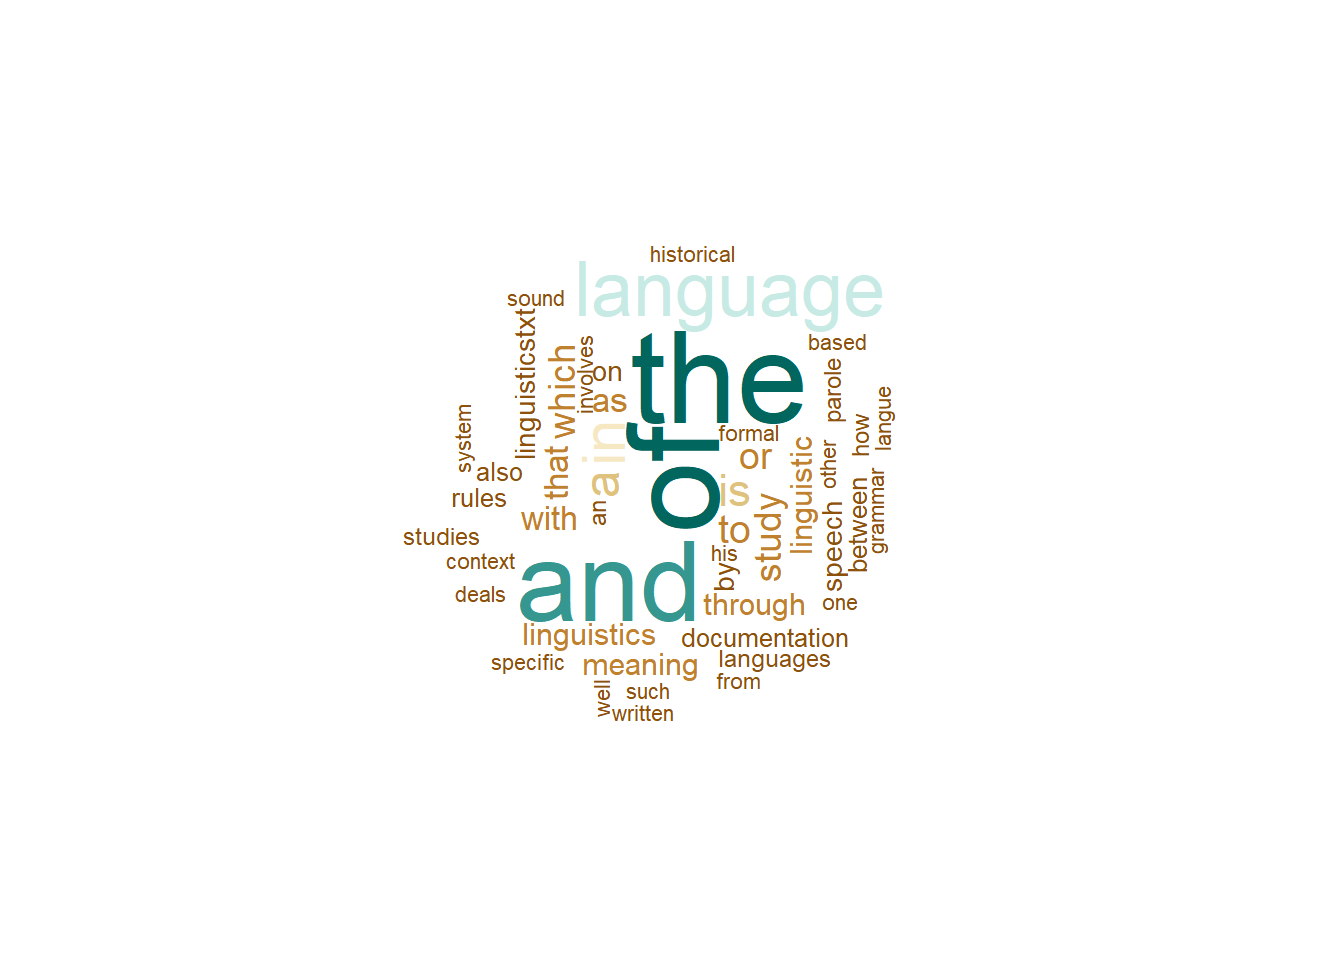
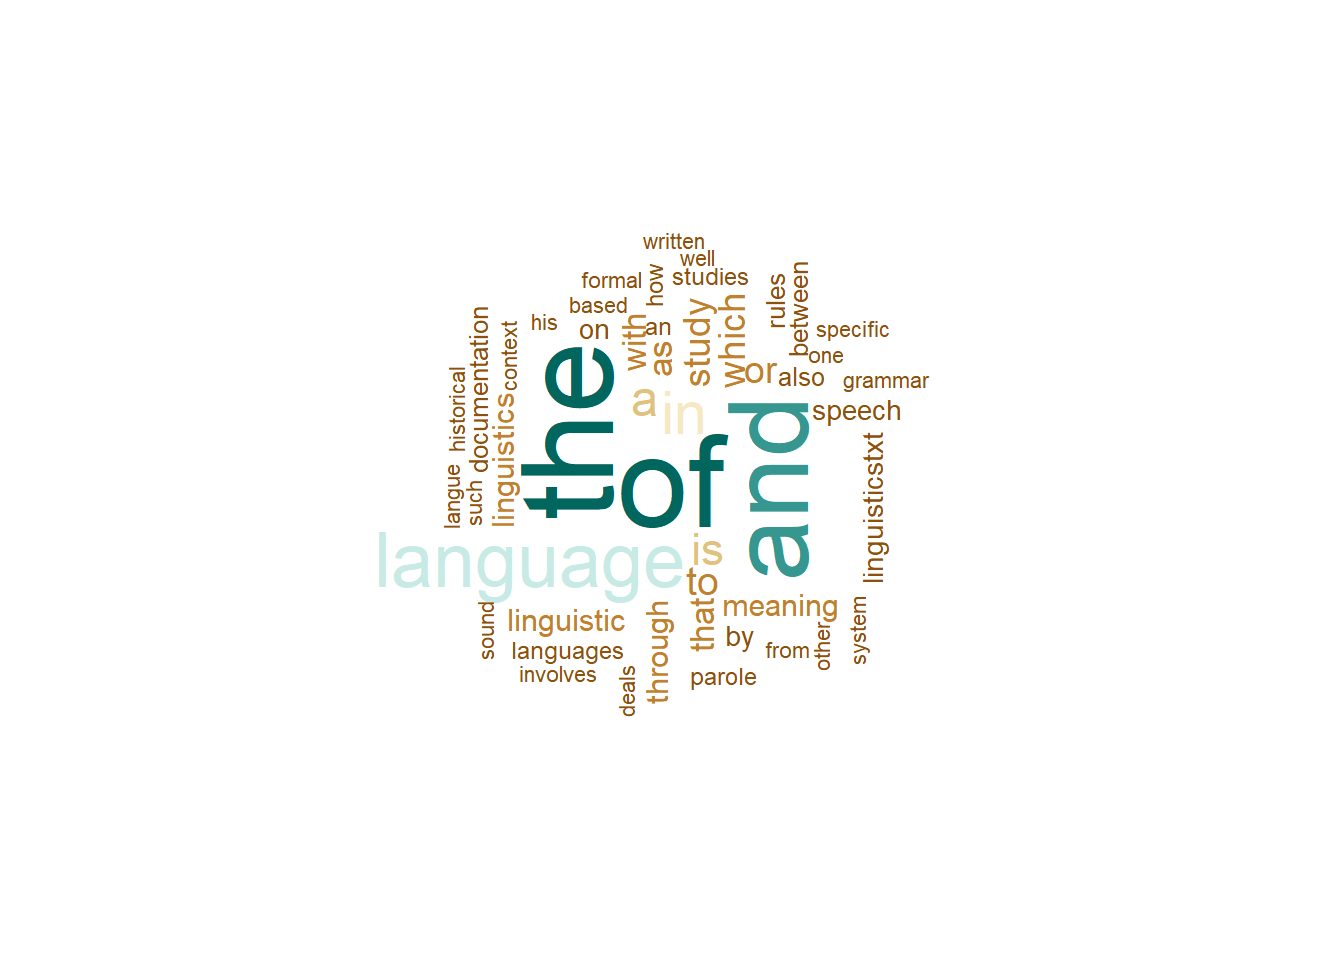
201907114

Changed region(s): [[0.2812, 0.25, 0.6875, 0.75]]

diff --git a/textanalysis.html b/textanalysis.html
@@ -428,7 +428,7 @@ div.tocify {
       <a href="network.html">Network Analysis</a>
     </li>
     <li>
-      <a href="topic.html">Topic Modeling</a>
+      <a href="topicmodels.html">Topic Modeling</a>
     </li>
     <li>
       <a href="classification.html">Classification</a>
@@ -692,7 +692,7 @@ colnames(tdm) &lt;- c(&quot;Twain&quot;,&quot;Melville&quot;)
 # create comparison cloud
 comparison.cloud(tdm, random.order=FALSE, 
                  colors = c(&quot;orange&quot;,&quot;lightblue&quot;),
-                 title.size=2.5, max.words=400, 
+                 title.size=2.5, max.words=200, 
                  title.bg.colors = &quot;white&quot;)</code></pre>
 <p><img src="textanalysis_files/figure-html/wf7-1.png" width="672" /></p>
 <p>Frequency infromation can also tell us something about the nature of a text. For instance, private dialogues will typically contain higher rates of second person pronouns compared with more format text types, such as, for instance, scripted monologues like speeches. For this reason, word frequency lists can be used in text classification and to determine the formality of texts.</p>
@@ -764,19 +764,19 @@ assocplot(d)</code></pre>
 <h2><span class="header-section-number">6.1</span> Part-of-speech tagging (pos tagging)</h2>
 <p>For many analyses that use language data it is useful or even important to differentiate between different parts of speech. In order to determine the word class of a certain word, we use a procedure which is called part-of-speech tagging or pos-tagging for short. Part-of-speech tagging is offered by many online services (e.g. )</p>
 <pre class="r"><code># load corpus data
-text &lt;- readLines(&quot;D:\\Uni\\UQ\\LADAL\\SLCLADAL.github.io\\data/text4.txt&quot;, skipNul = T)
+text &lt;- readLines(&quot;D:\\Uni\\UQ\\LADAL\\SLCLADAL.github.io\\data/text2.txt&quot;, skipNul = T)
 # clean data
 text &lt;- text[5] %&gt;%
   removeNumbers() %&gt;%
   stripWhitespace() %&gt;%
   str_replace_all(&quot;\&quot;&quot;, &quot;&quot;)  %&gt;%
-  str_replace_all(&quot;Considered hideous.*&quot;, &quot;&quot;)  %&gt;%
+  str_replace_all(&quot;When Harry.*&quot;, &quot;&quot;)  %&gt;%
   strsplit(&quot;qwertz&quot;) %&gt;%
   unlist() %&gt;%
   stripWhitespace() 
 # inspect data
 text</code></pre>
-<pre><code>## [1] &quot;Bernard, as custodian of the savage John who is now treated as a celebrity, is fawned on by the highest members of society and revels in attention he once scorned. Bernard&#39;s popularity is fleeting, though, and he becomes envious that John only really bonds with the literary-minded Helmholtz. &quot;</code></pre>
+<pre><code>## [1] &quot;By chance, Harry encounters the man who gave him the book, just as the man has attended a funeral. He inquires about the magic theater, to which the man replies, Not for everybody. &quot;</code></pre>
 <pre class="r"><code># load libraries
 source(&quot;D:\\R/POStagObject.R&quot;) # for pos-tagging objects in R
 library(NLP)
@@ -786,15 +786,68 @@ library(openNLPmodels.en)
 textpos &lt;- POStag(object = text)
 textpos</code></pre>
 <pre><code>## [[1]]
-## [1] &quot;Bernard/NNP ,/, as/IN custodian/NN of/IN the/DT savage/JJ John/NNP who/WP is/VBZ now/RB treated/VBN as/IN a/DT celebrity/NN ,/, is/VBZ fawned/VBN on/IN by/IN the/DT highest/JJS members/NNS of/IN society/NN and/CC revels/NNS in/IN attention/NN he/PRP once/RB scorned/VBD ./. Bernard/NNP &#39;s/POS popularity/NN is/VBZ fleeting/JJ ,/, though/IN ,/, and/CC he/PRP becomes/VBZ envious/JJ that/IN John/NNP only/RB really/RB bonds/NNS with/IN the/DT literary-minded/JJ Helmholtz/NNP ./.&quot;</code></pre>
-<p><img src="textanalysis_files/figure-html/unnamed-chunk-1-1.png" width="384" /> Figure 3: Example of the first lines of the pos-tagged ICE Ireland.</p>
+## [1] &quot;By/IN chance/NN ,/, Harry/NNP encounters/VBZ the/DT man/NN who/WP gave/VBD him/PRP the/DT book/NN ,/, just/RB as/IN the/DT man/NN has/VBZ attended/VBN a/DT funeral/NN ./. He/PRP inquires/VBZ about/IN the/DT magic/JJ theater/NN ,/, to/TO which/WDT the/DT man/NN replies/VBZ ,/, Not/RB for/IN everybody/NN ./.&quot;</code></pre>
 </div>
 <div id="syntactic-parsing" class="section level2">
 <h2><span class="header-section-number">6.2</span> Syntactic Parsing</h2>
-<p>Parsing refers to another type of annotation in which typically syntactic relations or functions are added to text. Parsing builds on PoS-tagging and allows drawing syntactic trees or dependencies.</p>
-<p><img src="textanalysis_files/figure-html/unnamed-chunk-2-1.png" width="384" /></p>
+<p>Parsing refers to another type of annotation in which either structural information (as in the case of XML documents) or syntactic relations are added to text. As syntactic parsing is commonly more relevenat in the language sciences, the follwoing will focus only on syntactic parsing. syntactic parsing builds on PoS-tagging and allows drawing syntactic trees or dependencies. Unfortunately, syntactic parsing is still has relatively high error rates when dealing with language that is not very formal. However, syntactic parsing is very reliable when dealing with written language.</p>
+<pre class="r"><code># extract text
+text &lt;- gsub(&quot;He inquires.*&quot;, &quot;&quot;, text)
+# convert character to string
+s &lt;- as.String(text)
+# define sentence and word token annotator
+sent_token_annotator &lt;- Maxent_Sent_Token_Annotator()
+word_token_annotator &lt;- Maxent_Word_Token_Annotator()
+# apply sentence and word annotatior
+a2 &lt;- annotate(s, list(sent_token_annotator, word_token_annotator))
+# define syntactic parsing annotator
+parse_annotator &lt;- Parse_Annotator()
+# apply parser
+p &lt;- parse_annotator(s, a2)
+# extract parsed information
+ptexts &lt;- sapply(p$features, &#39;[[&#39;, &quot;parse&quot;)
+ptexts</code></pre>
+<pre><code>## [1] &quot;(TOP (S (PP (IN By) (NP (NN chance)))(, ,) (NP (NNP Harry)) (VP (VBD encounters) (NP (NP (DT the) (NN man)) (SBAR (WHNP (WP who)) (S (VP (VBD gave) (NP (PRP him)) (NP (DT the) (NN book))(, ,) (SBAR (RB just) (IN as) (S (NP (DT the) (NN man)) (VP (VBZ has) (VP (VBN attended) (NP (DT a) (NN funeral)))))))))))(. .)))&quot;</code></pre>
+<pre class="r"><code># read into NLP Tree objects.
+ptrees &lt;- lapply(ptexts, Tree_parse)
+# show frist tree
+ptrees[[1]]</code></pre>
+<pre><code>## (TOP
+##   (S
+##     (PP (IN By) (NP (NN chance)))
+##     (, ,)
+##     (NP (NNP Harry))
+##     (VP
+##       (VBD encounters)
+##       (NP
+##         (NP (DT the) (NN man))
+##         (SBAR
+##           (WHNP (WP who))
+##           (S
+##             (VP
+##               (VBD gave)
+##               (NP (PRP him))
+##               (NP (DT the) (NN book))
+##               (, ,)
+##               (SBAR
+##                 (RB just)
+##                 (IN as)
+##                 (S
+##                   (NP (DT the) (NN man))
+##                   (VP
+##                     (VBZ has)
+##                     (VP (VBN attended) (NP (DT a) (NN funeral)))))))))))
+##     (. .)))</code></pre>
+<p>These trees can, of course, also be shown visually.</p>
+<pre class="r"><code># load library
+library(igraph)
+source(&quot;D:\\R/parse2graph.R&quot;)
+parse2graph(ptexts[1], title = &quot;&quot;, margin=-0.2, vertex.color=NA,
+            vertex.frame.color=NA, vertex.label.font=2,
+            vertex.label.cex=.75, vertex.label.color=&quot;black&quot;, asp=.5,
+            edge.width=1, edge.color=&#39;red&#39;, edge.arrow.size=0)</code></pre>
+<p><img src="textanalysis_files/figure-html/pars3-1.png" width="672" /></p>
 <p>The parsed information can then be used to create e.g. syntax trees.</p>
-<p><img src="textanalysis_files/figure-html/unnamed-chunk-3-1.png" width="384" /></p>
 </div>
 </div>
 <div id="text-classification" class="section level1">
@@ -988,17 +1041,17 @@ rownames(emo) &lt;- gsub(&quot;emos&quot;, &quot;&quot;, rownames(emo))
 # inspect data
 head(emo)</code></pre>
 <pre><code>##           anger anticipation disgust fear  joy sadness surprise trust
-## darwin     0.70         1.64    0.40 1.36 1.24    1.16     0.84  2.62
-## twain      0.76         2.36    0.72 1.32 1.96    1.26     1.12  2.28
-## orwell     1.76         2.32    1.58 2.80 1.82    2.12     1.04  2.70
-## lovecraft  1.64         1.68    1.62 2.36 0.92    2.40     0.98  1.50
-## husband    2.00         2.38    1.14 2.30 2.22    2.22     1.22  2.36
+## darwin     0.70         1.86    0.50 1.24 1.26    1.26     0.96  2.42
+## twain      1.18         2.48    0.58 1.58 1.96    1.18     1.42  2.08
+## orwell     1.88         2.04    1.48 2.42 1.70    1.98     1.26  2.50
+## lovecraft  1.52         1.94    1.34 2.34 0.94    2.16     0.88  1.46
+## husband    2.10         2.38    1.18 2.34 2.20    2.32     1.24  2.34
 ##           negative positive
-## darwin        2.66     4.02
-## twain         2.22     3.26
-## orwell        4.44     4.18
-## lovecraft     4.68     2.56
-## husband       4.34     4.50</code></pre>
+## darwin        2.52     3.78
+## twain         2.26     3.54
+## orwell        4.16     4.24
+## lovecraft     4.28     2.82
+## husband       4.44     4.44</code></pre>
 <pre class="r"><code>#convert into data frame
 emo &lt;- as.data.frame(emo)
 # add author column
@@ -1011,11 +1064,11 @@ emol &lt;- gather(emo, Emotion, Score, anger:positive, factor_key=TRUE)
 head(emol)</code></pre>
 <pre><code>##      Author      Emotion Score
 ## 1    Darwin        anger  0.70
-## 2     Twain        anger  0.76
-## 3    Orwell        anger  1.76
-## 4 Lovecraft        anger  1.64
-## 5   Husband        anger  2.00
-## 6    Darwin anticipation  1.64</code></pre>
+## 2     Twain        anger  1.18
+## 3    Orwell        anger  1.88
+## 4 Lovecraft        anger  1.52
+## 5   Husband        anger  2.10
+## 6    Darwin anticipation  1.86</code></pre>
 <pre class="r"><code># load library
 library(ggplot2)
 # extract subset
@@ -1030,16 +1083,90 @@ ggplot(emol2,                   # plot barplotdatagg1
            position=position_dodge()) +  # determine grouping
   scale_fill_manual(values=c(&quot;goldenrod2&quot;, &quot;gray70&quot;, &quot;indianred4&quot;, &quot;grey30&quot;, &quot;lightblue&quot;)) +                 # define colours
   theme_bw()                    # define theme (black and white)</code></pre>
-<p><img src="textanalysis_files/figure-html/unnamed-chunk-17-1.png" width="672" /></p>
+<p><img src="textanalysis_files/figure-html/unnamed-chunk-14-1.png" width="672" /></p>
 </div>
 </div>
 <div id="entity-extraction" class="section level1">
 <h1><span class="header-section-number">9</span> Entity Extraction</h1>
 <p>Entity Extraction is a process during which textual elements which have characteristics that are common to proper nouns (locations, people, organizations, etc.) rather than other parts of speech, e.g. non-sentence initial capitalization, are extracted from texts. Retrieving entities is common in automated summarization and in Topic Modelling. Entity extraction can be achieved by simple feature extraction (e.g. extract all non-sentence initial capitalized words) or with the help of training sets. Using training sets, i.e. texts that are annotated for entities and non-entities, achieves better results when dealing with unknown data and data with inconsistent capitalization.</p>
+<pre class="r"><code># load libraries
+library(NLP)
+library(openNLP)
+library(openNLPmodels.en)
+# load text
+orwell &lt;- readLines(&quot;D:\\Uni\\UQ\\LADAL\\SLCLADAL.github.io\\data/orwell.txt&quot;)
+orwell &lt;- orwell  %&gt;%
+  paste(sep = &quot; &quot;, collapse = &quot; &quot;) %&gt;%
+  str_replace_all(&quot; {2,}&quot;, &quot; &quot;) %&gt;%
+  str_replace_all(&quot;Part 2,.*&quot;, &quot;&quot;)
+# convert text into string
+orwell = as.String(orwell)
+# define annotators
+sent_annot = Maxent_Sent_Token_Annotator()
+word_annot = Maxent_Word_Token_Annotator()
+loc_annot = Maxent_Entity_Annotator(kind = &quot;location&quot;) 
+people_annot = Maxent_Entity_Annotator(kind = &quot;person&quot;) 
+# start annotation
+orwellanno = NLP::annotate(orwell, list(sent_annot, word_annot, 
+                                        loc_annot, people_annot))
+# extract features
+k &lt;- sapply(orwellanno$features, `[[`, &quot;kind&quot;)
+# extract locations
+orwelllocations = names(table(orwell[orwellanno[k == &quot;location&quot;]]))
+# extract people
+orwellpeople = names(table(orwell[orwellanno[k == &quot;person&quot;]]))
+# inspect extract people
+orwellpeople</code></pre>
+<pre><code>##  [1] &quot;Adam&quot;                &quot;Ah&quot;                  &quot;Big Brother&quot;        
+##  [4] &quot;Byron&quot;               &quot;Comrade Ogilvy&quot;      &quot;Floating Fortresses&quot;
+##  [7] &quot;Goldstein&quot;           &quot;Ingsoc.&quot;             &quot;Jews&quot;               
+## [10] &quot;Jones&quot;               &quot;Julius Caesar&quot;       &quot;Martin&quot;             
+## [13] &quot;Milton&quot;              &quot;Parsons&quot;             &quot;Peace&quot;              
+## [16] &quot;Rutherford&quot;          &quot;Saint Sebastian&quot;     &quot;Shakespeare&quot;        
+## [19] &quot;Smith&quot;               &quot;St Martin&quot;           &quot;Syme&quot;               
+## [22] &quot;Tom&quot;                 &quot;Winston&quot;             &quot;Winston Smith&quot;      
+## [25] &quot;Withers&quot;</code></pre>
 </div>
 <div id="topic-modelling" class="section level1">
 <h1><span class="header-section-number">10</span> Topic Modelling</h1>
-<p>Topic Modelling is a procedure that allows to extract clusters of key words. These key word clusters can represent topics that texts deal with. This procedure builds on word frequencies and correlations between word frequencies.</p>
+<p>Topic Modelling is a procedure that allows to extract clusters of key words. These key word clusters can represent topicsand the extraction and detection of such key word clusters builds on word frequencies and correlations between word frequencies.</p>
+<pre class="r"><code># load libraries
+library(NLP)
+library(openNLP)
+library(openNLPmodels.en)
+# load text
+orwell &lt;- readLines(&quot;D:\\Uni\\UQ\\LADAL\\SLCLADAL.github.io\\data/orwell.txt&quot;)
+orwell &lt;- orwell  %&gt;%
+  paste(sep = &quot; &quot;, collapse = &quot; &quot;) %&gt;%
+  str_replace_all(&quot; {2,}&quot;, &quot; &quot;) %&gt;%
+  str_replace_all(&quot;Part 2,.*&quot;, &quot;&quot;)
+# convert text into string
+orwell = as.String(orwell)
+# define annotators
+sent_annot = Maxent_Sent_Token_Annotator()
+word_annot = Maxent_Word_Token_Annotator()
+loc_annot = Maxent_Entity_Annotator(kind = &quot;location&quot;) 
+people_annot = Maxent_Entity_Annotator(kind = &quot;person&quot;) 
+# start annotation
+orwellanno = NLP::annotate(orwell, list(sent_annot, word_annot, 
+                                        loc_annot, people_annot))
+# extract features
+k &lt;- sapply(orwellanno$features, `[[`, &quot;kind&quot;)
+# extract locations
+orwelllocations = names(table(orwell[orwellanno[k == &quot;location&quot;]]))
+# extract people
+orwellpeople = names(table(orwell[orwellanno[k == &quot;person&quot;]]))
+# inspect extract people
+orwellpeople</code></pre>
+<pre><code>##  [1] &quot;Adam&quot;                &quot;Ah&quot;                  &quot;Big Brother&quot;        
+##  [4] &quot;Byron&quot;               &quot;Comrade Ogilvy&quot;      &quot;Floating Fortresses&quot;
+##  [7] &quot;Goldstein&quot;           &quot;Ingsoc.&quot;             &quot;Jews&quot;               
+## [10] &quot;Jones&quot;               &quot;Julius Caesar&quot;       &quot;Martin&quot;             
+## [13] &quot;Milton&quot;              &quot;Parsons&quot;             &quot;Peace&quot;              
+## [16] &quot;Rutherford&quot;          &quot;Saint Sebastian&quot;     &quot;Shakespeare&quot;        
+## [19] &quot;Smith&quot;               &quot;St Martin&quot;           &quot;Syme&quot;               
+## [22] &quot;Tom&quot;                 &quot;Winston&quot;             &quot;Winston Smith&quot;      
+## [25] &quot;Withers&quot;</code></pre>
 </div>
 
 

diff --git a/introquant.html b/introquant.html
@@ -428,7 +428,7 @@ div.tocify {
       <a href="network.html">Network Analysis</a>
     </li>
     <li>
-      <a href="topic.html">Topic Modeling</a>
+      <a href="topicmodels.html">Topic Modeling</a>
     </li>
     <li>
       <a href="classification.html">Classification</a>
@@ -486,7 +486,7 @@ div.tocify {
 <p>Unfortunately, this procedure to acquire knowledge does not tell us whether the statement “<em>I will raise my left arm once I have counted to three</em>” or the statement “<em>I will raise my right arm once I have counted to three</em>” is true. Both options are equally possible and a world in which I raise my left arm is just as logically coherent as a world in which I raised my right arm. As a consequence, we need empirical evidence to determine whether statement (as a side note: I only counted to two and raised neither of my arms). The problem here is that there is potentially an infinite number of possible numbers of logically coherent worlds and in order to determine which of these potential worlds is the world we live in (given that our world is logically coherent which I often doubt). In other words, we need empirical evidence to determine the workings of the world around us.</p>
 <div id="errare-humanum-est" class="section level2">
 <h2><span class="header-section-number">2.1</span> Errare Humanum Est</h2>
-<p>All of the above indicates that we need empirical evidence to determine the rules and laws governing empirical reality but it does not tell us why we need science. As we have established above, only empirical evidence can lead the way to determining what the characteristics of the world we live in are. Science comes in as we, as human beings, are not very good at seeing and understanding the world as it is (in fact, we are not able to do so!). To elaborate, when it comes things we are scared of, we rather rely on emotional narratives rather than things that really do us harm. For instance, we are more scared of what is sometimes referred to as <em>stranger danger</em>, i.e. that someone unknown will harm us or people dear to us than people we know while most murders and sexual exploits are committed by people, we know such as our family and friends. Another example would be represented by the movie <em>Jaws</em> while mosquitoes or even cows kill more people (mosquitoes are in fact the most dangerous animal for humans due to the diseases they transmit).</p>
+<p>All of the above indicates that we need empirical evidence to determine the rules and laws governing empirical reality but it does not tell us why we need science. As we have established above, only empirical evidence can lead the way to determining what the characteristics of the world we live in are. Science comes in as we, as human beings, are not very good at seeing and understanding the world as it is (in fact, we are not able to do so!). To elaborate, when it comes things we are scared of, we rather rely on emotional narratives rather than things that really do us harm. For instance, we are more scared of what is sometimes referred to as <em>stranger danger</em>, i.e. that someone unknown will harm us or people dear to us than people we know while most murders and sexual exploits are committed by people, we know such as our family and friends. Another example would be represented by the movie <em>Jaws</em> while mosquitoes or even cows kill more people (mosquitoes are in fact among the most dangerous animals for humans due to the diseases they transmit).</p>
 <p>Besides being more strongly influenced by emotional narratives there are other in-build biases such as our drive to stick to opinions rather than correcting them or switching sides once these are proven incorrect. In other words, we seek confirmation for our believes rather than challenging them. For example,</p>
 </div>
 <div id="the-monty-hall-problem" class="section level2">

diff --git a/introloading.html b/introloading.html
@@ -11,7 +11,7 @@
 
 <meta name="author" content="UQ SLC Digital Team" />
 
-<meta name="date" content="2019-07-09" />
+<meta name="date" content="2019-07-11" />
 
 <title>Loading and Exporting Data</title>
 
@@ -428,7 +428,7 @@ div.tocify {
       <a href="network.html">Network Analysis</a>
     </li>
     <li>
-      <a href="topic.html">Topic Modeling</a>
+      <a href="topicmodels.html">Topic Modeling</a>
     </li>
     <li>
       <a href="classification.html">Classification</a>
@@ -469,7 +469,7 @@ div.tocify {
 
 <h1 class="title toc-ignore">Loading and Exporting Data</h1>
 <h4 class="author"><em>UQ SLC Digital Team</em></h4>
-<h4 class="date"><em>2019-07-09</em></h4>
+<h4 class="date"><em>2019-07-11</em></h4>
 
 </div>
 

diff --git a/index.html b/index.html
@@ -426,7 +426,7 @@ div.tocify {
       <a href="network.html">Network Analysis</a>
     </li>
     <li>
-      <a href="topic.html">Topic Modeling</a>
+      <a href="topicmodels.html">Topic Modeling</a>
     </li>
     <li>
       <a href="classification.html">Classification</a>
